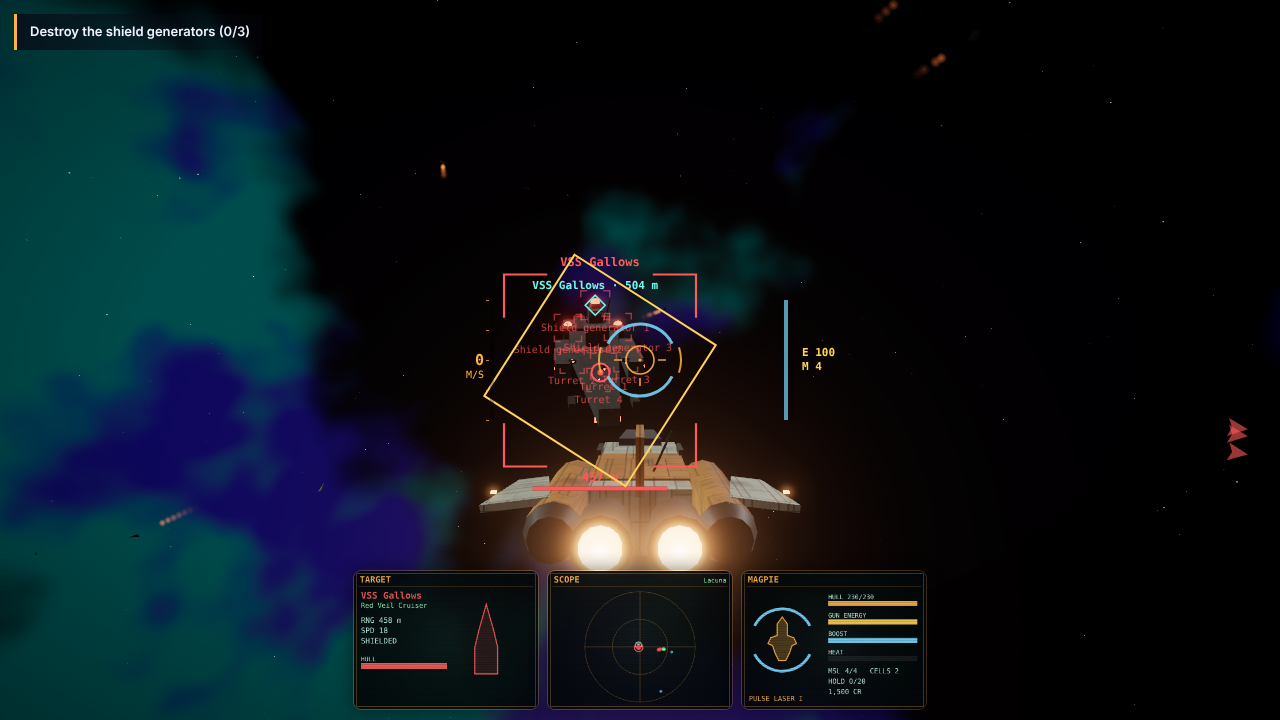
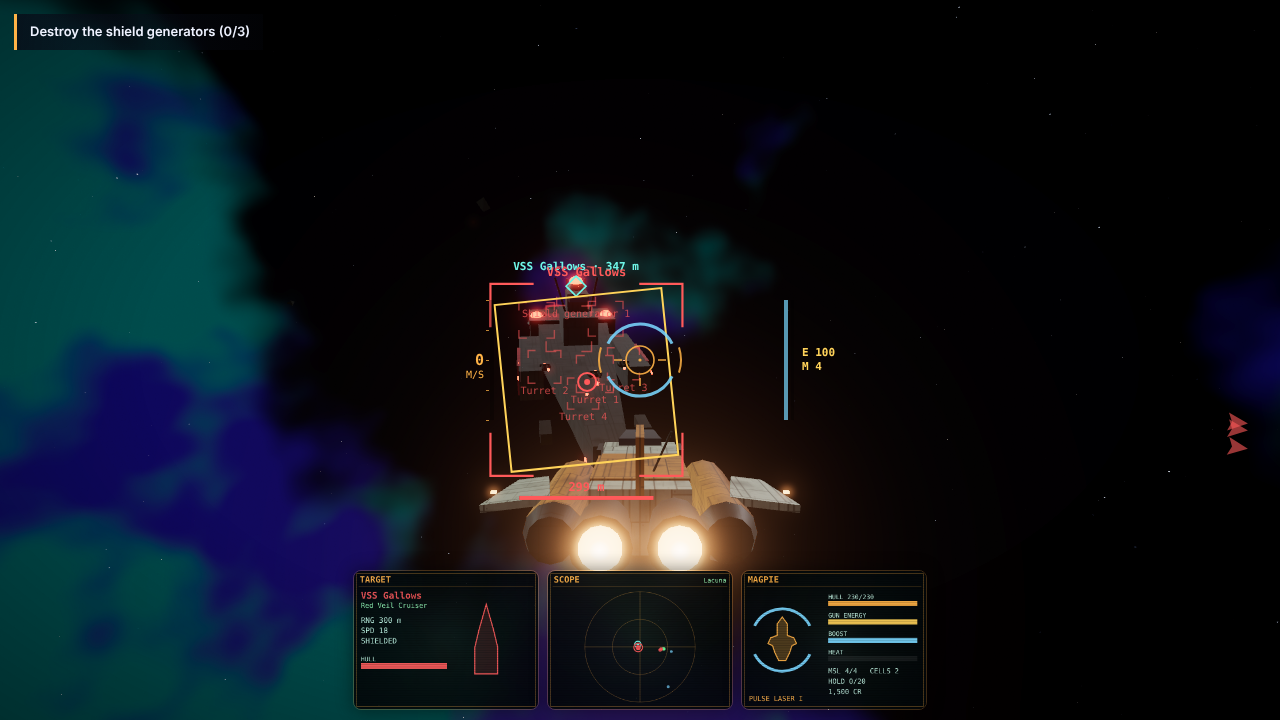
WIP: snapshot of in-progress game builds
Claude-Session: https://claude.ai/code/session_01CTWqs7JU5prBQTiug5Kvfy

diff --git a/games/skyharbor/index.html b/games/skyharbor/index.html
@@ -99,44 +99,21 @@ button{font-family:inherit}
 #gallery{position:fixed;inset:0;z-index:28;display:none;pointer-events:none}
 #gallery.show{display:block}
 #gallery .gcard{position:absolute;left:16px;top:50%;transform:translateY(-50%);width:min(360px,calc(100vw - 32px));max-height:calc(100vh - 120px);overflow:auto;padding:16px 18px;pointer-events:auto}
-@media (max-width:720px){#gallery .gcard{top:auto;bottom:76px;transform:none;max-height:38vh}}
-#gallery .gnav{position:absolute;right:16px;bottom:16px;display:flex;gap:8px;pointer-events:auto}
-#gallery .gtitle{position:absolute;top:16px;left:50%;transform:translateX(-50%);font-size:12px;letter-spacing:.4em;text-transform:uppercase;color:#ffd27a;pointer-events:none}
-body.gclean #gallery .gcard,body.gclean #gallery .gnav,body.gclean #gallery .gtitle,body.gclean .sd-corner{display:none}
-#eyebar{left:50%;bottom:14px;transform:translateX(-50%);display:none;gap:6px;padding:6px}
-#eyebar.show{display:flex}
-.modal{position:fixed;inset:0;z-index:52;display:none;place-items:center;background:rgba(2,3,10,.6);backdrop-filter:blur(4px)}
-.modal.open{display:grid}
-.modal .sd-card{max-height:86vh;overflow:auto;text-align:left}
-.modal .sd-card h1{text-align:center}
-.mile{display:flex;gap:10px;align-items:center;padding:8px 0;border-bottom:1px solid rgba(160,180,255,.08);font-size:14px}
-.mile .dot{width:22px;height:22px;border-radius:50%;flex:none;display:grid;place-items:center;font-size:12px;border:1px solid var(--line)}
-.mile.done .dot{background:linear-gradient(135deg,#6aff9a,#3ac8ff);color:#06101a;border:none;font-weight:900}
-.mile small{display:block;color:var(--dim);font-size:12px}
-.lmgrid{display:grid;grid-template-columns:1fr 1fr;gap:8px;margin-top:8px}
-.lmc{padding:10px;border-radius:12px;background:rgba(255,255,255,.05);border:1px solid var(--line);cursor:pointer;font-size:12px;text-align:left;color:var(--txt)}
-.lmc:hover{background:rgba(120,140,255,.15)}
-.lmc b{display:block;font-size:13px;margin-bottom:2px}
-.lmc.locked{opacity:.45;cursor:not-allowed}
-.lmc .p{color:#ffd27a;font-weight:700}
-.flow{display:grid;grid-template-columns:1fr auto 1fr;gap:6px;align-items:center;font-size:12px;margin:6px 0}
-.flow .n{padding:8px;border-radius:10px;background:rgba(255,255,255,.05);text-align:center}
-.flow .n b{display:block;font-size:16px}
-.flow .a{color:var(--dim);font-size:18px}
-.lb{display:flex;justify-content:space-between;font-size:13px;padding:4px 6px;border-radius:7px}
-.lb.you{background:rgba(255,210,122,.14);color:#ffe0a0;font-weight:700}
-#menu .sd-card{max-height:94vh;overflow:auto}
 @media (max-width:720px){
-  #topbar{right:10px;top:58px;gap:6px}
+  #topbar{right:8px;left:8px;top:58px;gap:5px}
   #planetChip{display:none}
-  #stats{width:100%;justify-content:space-between}
-  .stat{min-width:0;padding:4px 7px}.stat b{font-size:13px}.stat small{font-size:9px}
+  #stats{width:100%;justify-content:space-between;padding:3px;box-sizing:border-box}
+  .stat{min-width:0;padding:3px 6px}.stat b{font-size:13px}.stat small{font-size:8.5px;letter-spacing:.06em}
   #navbtns{right:62px}
-  #clock .t{min-width:64px;font-size:12px}
-  #side,#sysCard{left:8px;right:8px;width:auto;top:auto;bottom:86px;max-height:46vh;border-radius:16px}
-  #coach{top:178px;bottom:auto;left:8px;right:8px;transform:none;max-width:none;font-size:13px}
-  .tool{min-width:52px;height:54px}
-  #hint{bottom:150px}
+  #clock{padding:3px 5px}#clock .ib{width:34px;height:34px;border-radius:9px}#clock .ib svg{width:16px;height:16px}
+  #clock .t{min-width:60px;font-size:12px}
+  #side,#sysCard{left:8px;right:8px;width:auto;top:auto;bottom:84px;max-height:44vh;border-radius:16px;box-sizing:border-box}
+  #coach{top:150px;bottom:auto;left:8px;right:8px;transform:none;max-width:none;font-size:12.5px;padding:9px 12px;gap:9px}
+  #coach .step{width:24px;height:24px;font-size:12px}
+  body:has(#side.open) #coach,body:has(#sysCard.open) #coach{display:none}
+  #hint{display:none!important}
+  .tool{min-width:50px;height:52px}.tool .c{display:none}
+  #gallery .gcard{top:auto;bottom:76px;transform:none;max-height:38vh}
 }
 </style>
 </head>

diff --git a/games/starwake/art.js b/games/starwake/art.js
@@ -1,7 +1,7 @@
 // Starwake — procedural art: kitbashed hard-surface ships/stations/gates, TSL planets + sun + gate swirl, asteroids, cockpit, hangar.
 import { THREE, canvasTexture } from '/shared/sd-kit.js';
 import { Fn, uniform, vec2, vec3, vec4, float, mix, smoothstep, dot, normalize, pow, max, min, abs, clamp, sin, cos, atan, length, uv, time,
-  positionLocal, positionWorld, normalWorld, cameraPosition, mx_fractal_noise_float, mx_noise_float, exp, fract, step } from 'three/tsl';
+  positionLocal, positionWorld, normalWorld, cameraPosition, positionView, normalView, mx_fractal_noise_float, mx_noise_float, exp, fract, step } from 'three/tsl';
 import { mergeGeometries } from 'three/addons/utils/BufferGeometryUtils.js';
 import { rng } from './data.js';
 
@@ -51,7 +51,7 @@ export const PALETTES = {
   player: { hull: '#cfc6b6', trim: '#d8802a', dark: '#2c3038', glow: '#ffb070' },
   concord: { hull: '#e2e9f2', trim: '#3a7ad0', dark: '#2a3140', glow: '#8fd0ff' },
   hollows: { hull: '#a99c86', trim: '#e0a030', dark: '#34302a', glow: '#ffc070' },
-  veil: { hull: '#3e383c', trim: '#c42a3a', dark: '#1c1a1e', glow: '#ff5a44' },
+  veil: { hull: '#6a5f63', trim: '#d8303f', dark: '#2c282d', glow: '#ff5a44' },
   wake: { hull: '#1d3038', trim: '#3ee0d0', dark: '#0c1418', glow: '#6ff7e8' },
   station: { hull: '#c4c8ce', trim: '#d89030', dark: '#30343c', glow: '#ffd890' },
 };
@@ -67,6 +67,11 @@ export function mats(palette = 'player') {
     glass: new THREE.MeshStandardNodeMaterial({ color: '#0d1a26', metalness: 0.9, roughness: 0.08, emissive: '#06121c' }),
     rock: new THREE.MeshStandardNodeMaterial({ color: '#6c655e', map: TEX.rock, metalness: 0.05, roughness: 0.95 }),
   };
+  // rim light: cool fresnel emissive on hulls so dark silhouettes still read against black space at dogfight range
+  const rimC = vec3(...new THREE.Color(P.glow).lerp(new THREE.Color('#9cc4ff'), 0.6).toArray());
+  const rimK = palette === 'station' || palette === 'hangar' ? 0.12 : palette === 'veil' || palette === 'wake' ? 0.55 : 0.35;
+  const rim = Fn(() => { const V = normalize(positionView.negate()); return rimC.mul(pow(float(1).sub(max(dot(normalView, V), 0.0)), 2.6)).mul(rimK); });
+  for (const k of ['hull', 'trim', 'dark']) m[k].emissiveNode = rim();
   return (matCache[palette] = m);
 }
 
@@ -514,6 +519,7 @@ export function cockpitModel(palette = 'player', screens) {
   K.strut('hull', [-0.42, 0.66, -0.92], [0.42, 0.66, -0.92], 0.028);
   K.strut('hull', [0, 0.66, -0.92], [0, 0.82, 0.4], 0.022);
   root.add(K.build(M, 2.4));
+  // FABLE: pilot hands on stick + throttle, animated with player input
   // instrument panel group (tilted back toward the pilot), sized so all three MFDs sit fully on screen
   const panel = new THREE.Group(); panel.position.set(0, -0.475, -0.94); panel.rotation.x = -0.36; root.add(panel);
   const pk = new Kit(); pk.box('dark', 2.7, 0.36, 0.06, 0, 0, 0); pk.box('hull', 2.7, 0.025, 0.08, 0, 0.18, 0.01);
@@ -549,6 +555,7 @@ export function hangarScene(lightHex = '#ffd27a', backgroundNode = null) {
   for (let i = 0; i < 12; i++) K.mirror((s) => K.box('glow', 1.2, 1.2, 1.2, s * 72, 4 + i * 3.6, -99));
   // landing pad
   K.cyl('dark', 26, 28, 1.2, 0, 0.6, 0, 0, 0, 0, 40); K.cyl('hull', 20, 21, 1.3, 0, 0.65, 0, 0, 0, 0, 40);
+  // FABLE: animate the hangar crane, docking clamps and deck crew around the pad
   // gantry crane + crate stacks against the walls + fuel lines
   K.mirror((s) => { K.box('hull', 3, 52, 3, s * 50, 26, -40); K.box('trim', 2, 2, 60, s * 50, 50, -20); });
   K.box('hull', 104, 3, 3, 0, 51, -40); K.box('trim', 8, 6, 8, 18, 46, -40); K.strut('dark', [18, 43, -40], [18, 28, -40], 0.3);

diff --git a/games/starwake/hud.js b/games/starwake/hud.js
@@ -53,7 +53,11 @@ function edgeArrow(ctx, x, y, color, label) {
   const m = 46; const k = Math.min((cx - m) / Math.abs(dx || 1e-6), (cy - m) / Math.abs(dy || 1e-6));
   const ax = cx + dx * k, ay = cy + dy * k;
   ctx.save(); ctx.translate(ax, ay); ctx.rotate(Math.atan2(dy, dx)); ctx.fillStyle = color; ctx.beginPath(); ctx.moveTo(14, 0); ctx.lineTo(-6, -9); ctx.lineTo(-2, 0); ctx.lineTo(-6, 9); ctx.closePath(); ctx.fill(); ctx.restore();
-  if (label) { ctx.fillStyle = color; ctx.font = '600 11px ui-monospace,Menlo,monospace'; ctx.textAlign = 'center'; ctx.fillText(label, ax - dx * 30, ay - dy * 22 + 4); }
+  if (label) { // clamp the label inside the screen + safe margin so it never clips at an edge
+    ctx.fillStyle = color; ctx.font = '600 11px ui-monospace,Menlo,monospace'; ctx.textAlign = 'center';
+    const hw = ctx.measureText(label).width / 2 + 8; const lx = Math.min(innerWidth - hw, Math.max(hw, ax - dx * 30)); const ly = Math.min(innerHeight - 12, Math.max(18, ay - dy * 22 + 4));
+    ctx.fillText(label, lx, ly);
+  }
 }
 function brackets(ctx, x, y, r, color, lw = 2) {
   const k = Math.max(r * 0.45, 5); ctx.strokeStyle = color; ctx.lineWidth = lw; ctx.beginPath();
@@ -165,7 +169,7 @@ export function drawHUD(G, dt) {
   if (warnK && Math.sin(H.t * 14) > 0) { ctx.fillStyle = '#ff3b3b'; ctx.font = '800 18px ui-monospace,Menlo,monospace'; ctx.fillText('◆ MISSILE ◆', cx, cy - 92); }
   if (hf < 0.25 && Math.sin(H.t * 8) > 0) { ctx.fillStyle = '#ff5a5a'; ctx.font = '800 13px ui-monospace,Menlo,monospace'; ctx.fillText('HULL CRITICAL', cx, cy + 62); }
   if (G.warnMsg && G.warnMsg.t > 0) { G.warnMsg.t -= dt; ctx.fillStyle = '#ff9a3a'; ctx.font = '800 14px ui-monospace,Menlo,monospace'; ctx.fillText(G.warnMsg.text, cx, cy - 116); }
-  const ctxHint = G.contextHint; if (ctxHint) { ctx.fillStyle = '#eef2ff'; ctx.font = '600 13px Inter,system-ui,sans-serif'; ctx.globalAlpha = 0.85 + Math.sin(H.t * 4) * 0.15; ctx.fillText(ctxHint, cx, G.view === 'cockpit' && !small ? Hh * 0.655 : Hh * 0.2); ctx.globalAlpha = 1; }
+  const ctxHint = G.contextHint; if (ctxHint) { ctx.fillStyle = '#eef2ff'; ctx.font = '600 13px Inter,system-ui,sans-serif'; ctx.globalAlpha = 0.85 + Math.sin(H.t * 4) * 0.15; ctx.fillText(ctxHint, cx, G.view === 'cockpit' && !small ? Hh * 0.655 : small ? Hh * 0.36 : Hh * 0.2); ctx.globalAlpha = 1; }
 }
 
 // ---------------------------------------------------------------- MFDs (10 Hz)

diff --git a/games/starwake/index.html b/games/starwake/index.html
@@ -84,7 +84,7 @@ table.keys{width:100%;font-size:12px;text-align:left;margin-top:10px;border-coll
 .tb.fire{right:76px;bottom:30px;width:92px;height:92px;background:rgba(255,80,60,.35)}.tb.msl{right:178px;bottom:28px;width:62px;height:62px}.tb.boost{right:168px;bottom:100px;width:62px;height:62px}.tb.tgt{right:80px;bottom:132px;width:56px;height:56px}
 .trow{position:absolute;left:8px;right:64px;top:max(10px,env(safe-area-inset-top));display:flex;flex-wrap:wrap;justify-content:center;gap:5px}.tb.s{position:static;border-radius:10px;width:auto;height:38px;padding:0 10px;font-size:11px}.tb.ctx{background:rgba(111,247,232,.25)}.tb:disabled{opacity:.35}
 @media (max-width:760px){.dk-top{padding:12px 64px 8px 14px}.dk-stats{gap:10px}.dk-stats b{font-size:14px}#dock{grid-template-columns:1fr}.dk-tabs,.dk-body,.dk-rep{grid-column:1}.dk-top{grid-column:1}.dk-tab{padding:8px 10px;font-size:12px}.dk-body{margin:0 8px 6px;padding:12px}
-  .shipcard{flex-direction:column}.shipcard canvas{width:100%;height:90px}table.mkt .best{display:none}#objective{top:100px;font-size:12px}#comms{top:150px}}
+  .shipcard{flex-direction:column}.shipcard canvas{width:100%;height:90px}table.mkt .best{display:none}#objective{top:100px;font-size:12px}#comms{top:150px;max-width:calc(100vw - 150px);padding:8px}#comms canvas{width:44px;height:44px}#comms p{font-size:12px}table.mkt td,table.mkt th{padding:6px 3px}.mini{min-width:30px;padding:5px}}
 body.shot #hud,body.shot #mfd-dom,body.shot #objective,body.shot #comms,body.shot .sd-corner,body.shot .sd-toasts,body.shot #titlecard{display:none!important}
 </style>
 </head>

diff --git a/games/starwake/world.js b/games/starwake/world.js
@@ -756,6 +756,7 @@ function spawnPirateWave(G, R, fac, n) {
   const from = R.capital.pos.clone().add(new V3(0, -20, -160)).applyAxisAngle(UP, 0);
   for (let i = 0; i < n; i++) spawnShip(G, fac === 'veil' ? (i === 2 ? 'marauder' : 'jackal') : 'kite', fac, from.clone().add(new V3(i * 40 - 40, -i * 15, -i * 30)), { lvl: 3, palette: fac, look: G.player.pos, name: fac === 'veil' ? 'Veil raider' : 'Concord Lancer', ai: { state: 'attack', canFlee: false }, loot: 0.3 }).aggro = true;
 }
+// FABLE: finale music track; turret slew animation toward targets
 function finaleTick(G, R, dt) {
   const cap = R.capital; if (!cap.alive) return;
   const nav = G.navs.find((n) => n.id === 'capital'); if (nav) nav.pos = R.phase === 1 ? (R.gens.find((g) => g.alive)?.pos || cap.pos) : R.core.pos;
@@ -772,7 +773,7 @@ function finaleTick(G, R, dt) {
       R.phase = 3; R.boomT = 0; G.ui.objective(null); removeNav(G, 'capital');
       for (const s of G.ships) if (s.alive && s.fac === cap.fac && s !== cap) { s.ai && (s.ai.state = 'flee'); }
     }
-  } else if (R.phase === 3) {
+  } else if (R.phase === 3) { // FABLE: hand-authored capital-ship break-up (hull sections shearing, turret slew) + finale music swell
     R.boomT += dt;
     if (Math.random() < dt * 6) explosionFX(G, _a.set((Math.random() - 0.5) * 60, (Math.random() - 0.5) * 30, (Math.random() - 0.5) * 220).applyQuaternion(cap.quat).add(cap.pos).clone(), 2 + Math.random() * 2);
     cap.ang.set(0.03, 0.02, 0.08);

diff --git a/games/hollowcrown/js/scenes.js b/games/hollowcrown/js/scenes.js
@@ -249,7 +249,7 @@ SCENE_DEFS.throne = {
     banners: { p: [2.6, 6.4, -4.9], s: [1.2, 2.8, 0.3], walk: [2.6, -1.9] },
   },
   exits: { courtyard: { p: [9.0, 1.9, 0.8], s: [0.8, 3.8, 2.8], walk: [7.7, 0.8], dir: 'right' } },
-  npcs: { queen: { at: [-1.6, -2.7], face: 0.25, make: () => makeHuman({ name: 'queen', skin: '#f3d0b4', hair: '#c8c0b8', hairStyle: 'bun', hat: 'crown', robe: true, robeC: '#7a3a8a', top: '#7a3a8a', robeHem: '#e8c050', cape: '#a8242e', capeLen: 1.0, glasses: '#c8a040', collar: '#f4ecdc', boots: '#4a2a3a', scale: 1.04, rig: {} }) } },
+  npcs: { queen: { at: [-1.6, -2.7], face: 0.25, walk: [-0.2, -1.5], make: () => makeHuman({ name: 'queen', skin: '#f3d0b4', hair: '#c8c0b8', hairStyle: 'bun', hat: 'crown', robe: true, robeC: '#7a3a8a', top: '#7a3a8a', robeHem: '#e8c050', cape: '#a8242e', capeLen: 1.0, glasses: '#c8a040', collar: '#f4ecdc', boots: '#4a2a3a', scale: 1.04, rig: {} }) } },
 };
 
 // ------------------------------------------------------------------ 2. COURTYARD

diff --git a/games/hollowcrown/js/ui.js b/games/hollowcrown/js/ui.js
@@ -80,10 +80,10 @@ export class UI {
         b.addEventListener('pointerup', (e) => { e.stopPropagation(); finish(o.id); });
         el.appendChild(b);
       });
-      el.classList.remove('hidden'); $('#invbar').classList.add('dim');
+      el.classList.remove('hidden'); $('#invbar').style.visibility = 'hidden';
       const key = (e) => { const n = parseInt(e.key, 10); if (n >= 1 && n <= opts.length) { e.preventDefault(); finish(opts[n - 1].id); } };
       addEventListener('keydown', key);
-      const finish = (id) => { removeEventListener('keydown', key); el.classList.add('hidden'); $('#invbar').classList.remove('dim'); this.o.sfx?.('click'); resolve(id); };
+      const finish = (id) => { removeEventListener('keydown', key); el.classList.add('hidden'); $('#invbar').style.visibility = 'visible'; this.o.sfx?.('click'); resolve(id); };
       this._choiceKey = key;
       setTimeout(() => el.querySelector('.choice')?.focus({ preventScroll: true }), 30);
     });

diff --git a/games/starwake/ui.js b/games/starwake/ui.js
@@ -53,7 +53,7 @@ export function initUI(G) {
   const showNext = () => {
     if (cur || !queue.length) return; cur = queue.shift();
     drawPortrait(C.querySelector('canvas'), cur.who); C.querySelector('b').textContent = cur.who.name + (cur.who.title ? ` · ${cur.who.title}` : '');
-    const p = C.querySelector('p'); p.textContent = ''; C.classList.remove('hide'); audio.comms();
+    const p = C.querySelector('p'); p.textContent = ''; C.classList.remove('hide'); audio.comms(); // FABLE: radio-filtered voice barks per character
     let i = 0; const txt = cur.text; const tick = () => { if (!cur) return; i = Math.min(txt.length, i + 2); p.textContent = txt.slice(0, i); if (i < txt.length) setTimeout(tick, 18); }; tick();
     setTimeout(() => { C.classList.add('hide'); cur = null; setTimeout(showNext, 250); }, cur.dur * 1000 + txt.length * 18);
   };

diff --git a/games/skyharbor/sim.js b/games/skyharbor/sim.js
@@ -314,7 +314,7 @@ export function planetAppeal(st, p) {
   return A;
 }
 function eventMult(st, p) { let m = 1; for (const e of st.events) if (e.planet === p.sys) m *= e.mult || 1; return m; }
-export function rivalAppeal(st, w) { const D = DIFFICULTY[st.difficulty] || DIFFICULTY.standard; const g = 1.6 + (st.day - 1) * 0.045; return Object.fromEntries(VT.map((t) => [t, (w.dest.A[t] || 0) * g * D.rivals])); }
+export function rivalAppeal(st, w) { const D = DIFFICULTY[st.difficulty] || DIFFICULTY.standard; const g = 2.4 + (st.day - 1) * 0.06; return Object.fromEntries(VT.map((t) => [t, (w.dest.A[t] || 0) * g * D.rivals])); }
 const STAY_HOME = 4.5;
 
 // daily demand by visitor type headed for each player planet (before capacity)

diff --git a/games/starwake/audio.js b/games/starwake/audio.js
@@ -30,6 +30,7 @@ function v({ type = 'sine', f0 = 440, f1 = f0, dur = 0.15, vol = 0.2, noise = fa
   if (pan && ctx.createStereoPanner) { const p = ctx.createStereoPanner(); p.pan.value = Math.max(-1, Math.min(1, pan)); node.connect(p); node = p; }
   node.connect(g); g.connect(out); src.start(t); src.stop(t + dur + 0.05);
 }
+// FABLE: music (ambient score per faction space, combat stingers, hangar theme) layers on top of these SFX
 export const audio = {
   ensure,
   engine(throttle, boost, cruise, on = true) {
